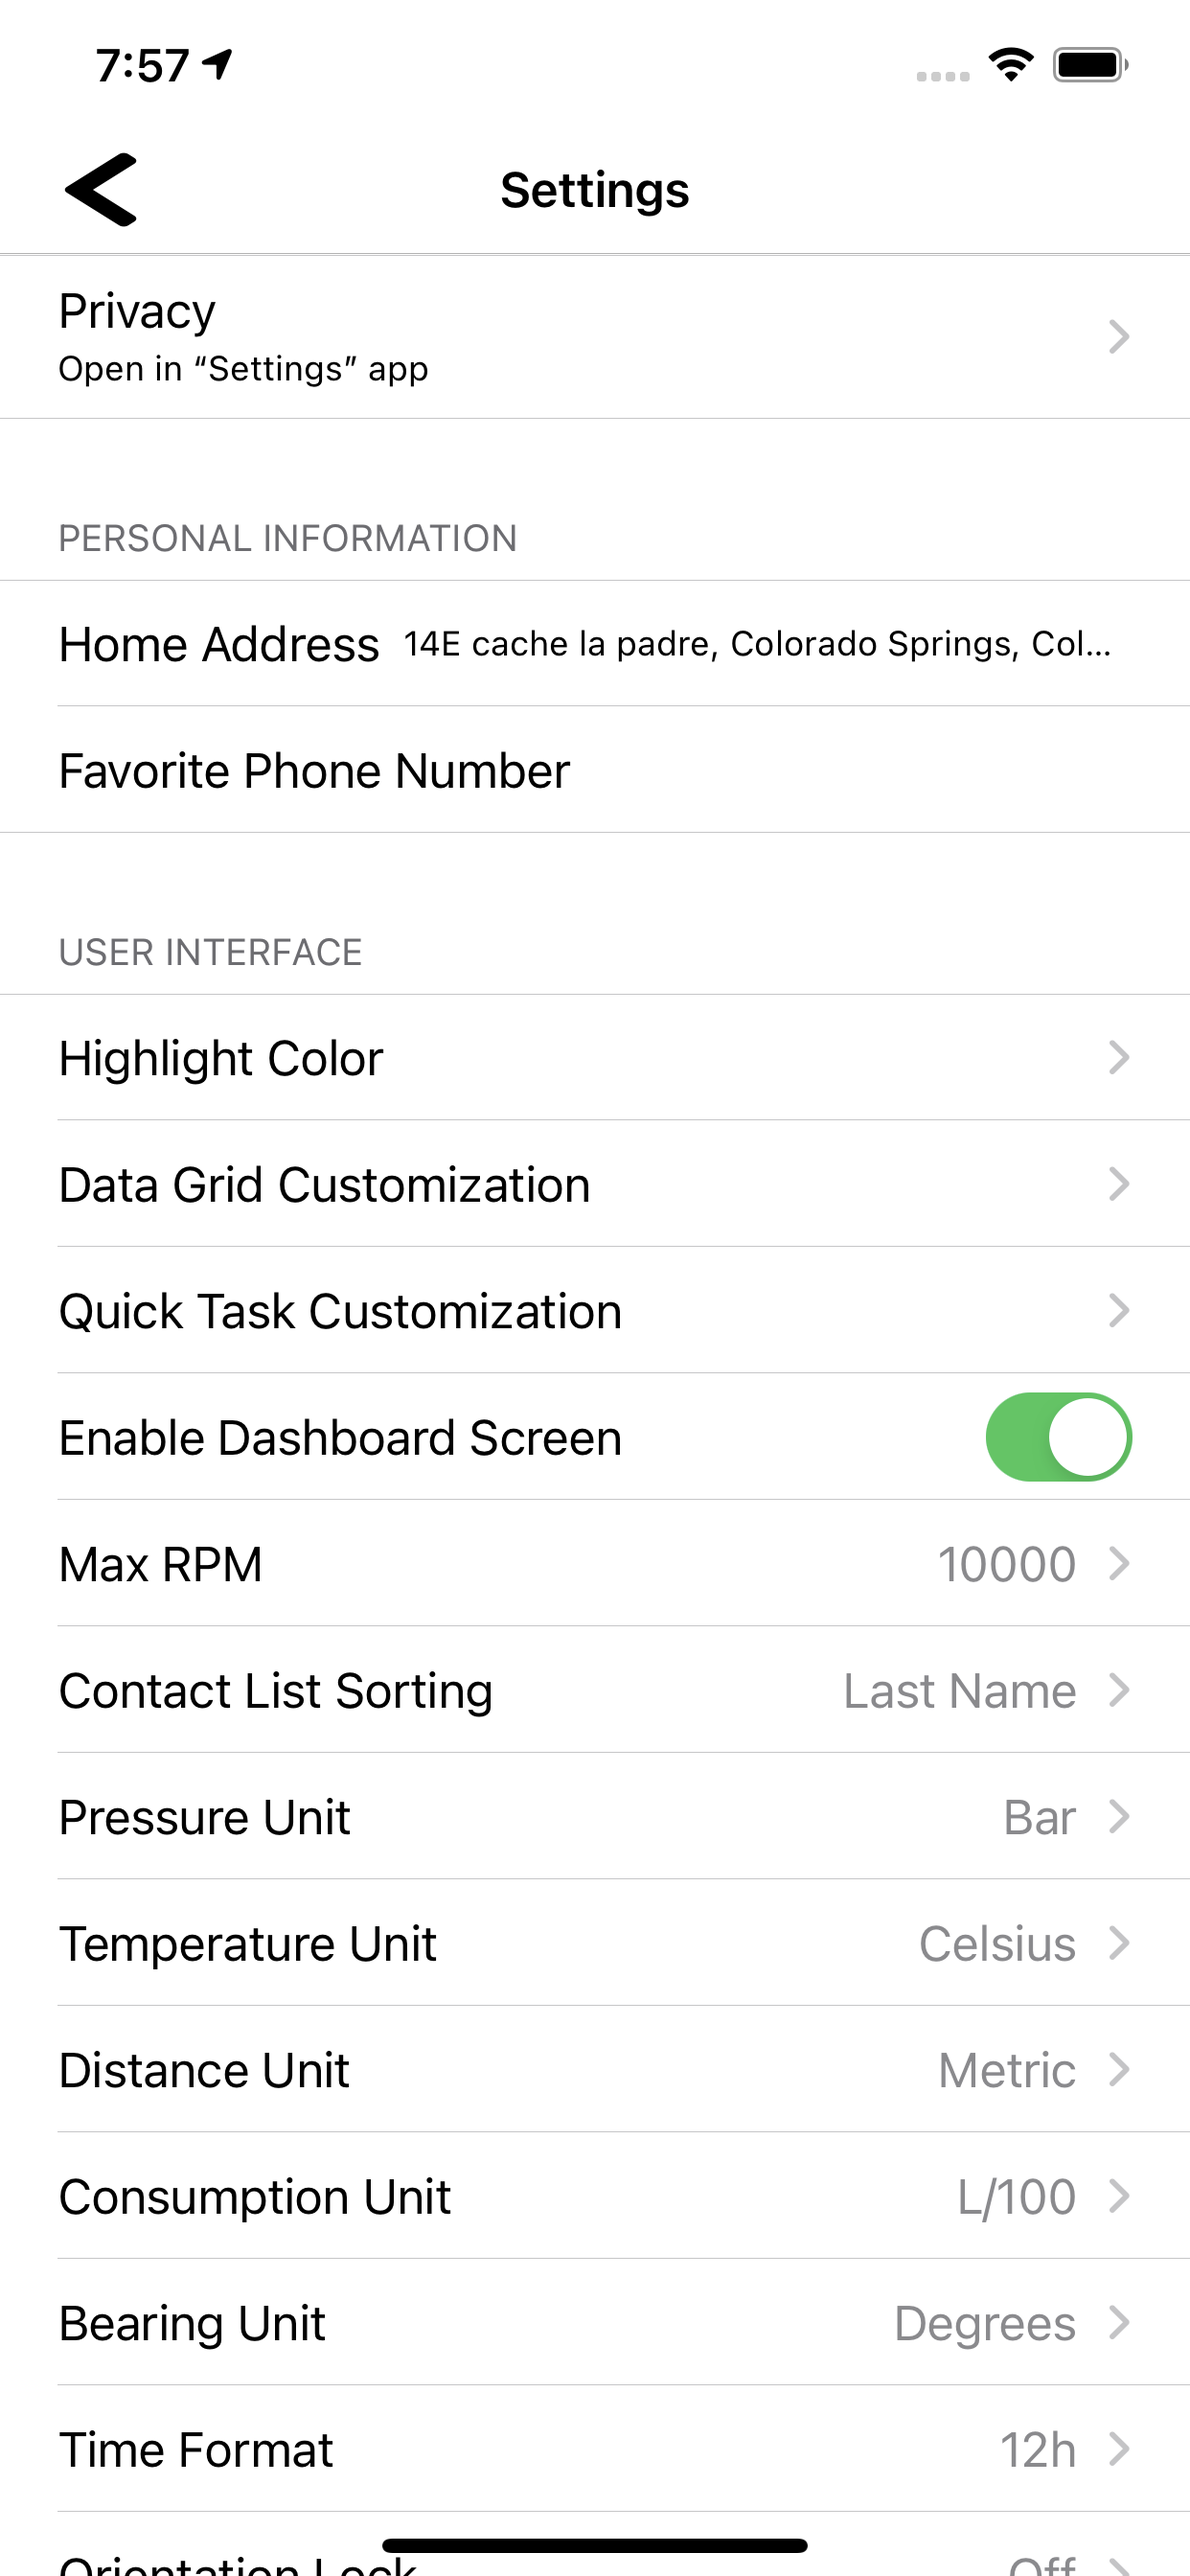
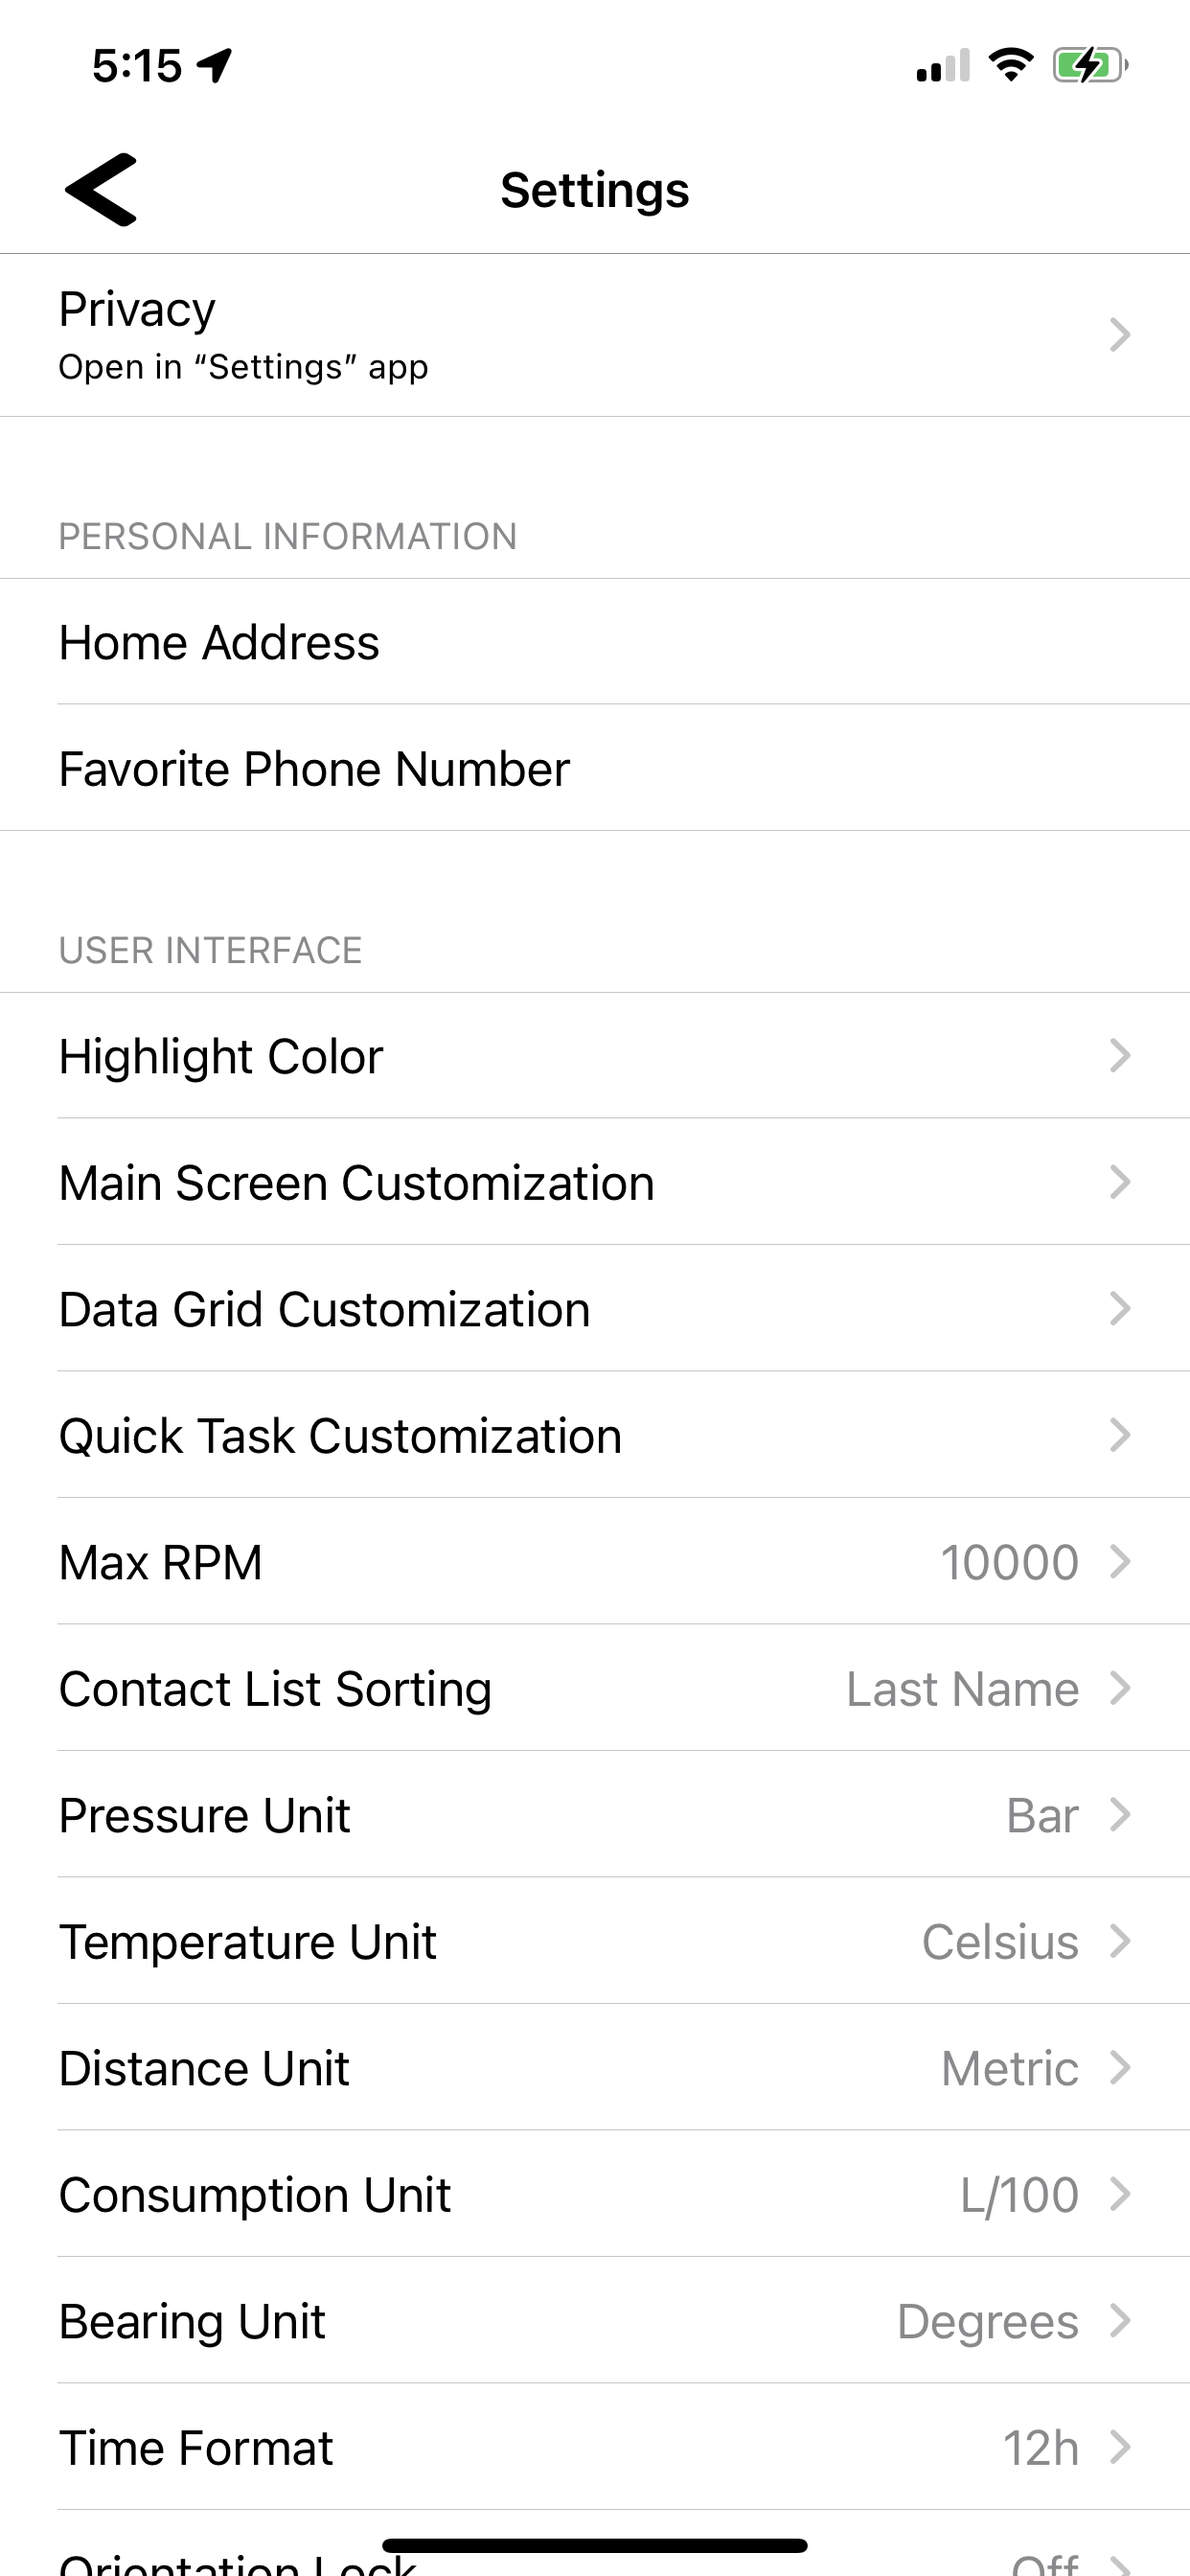
Add Fuel Quick Task Update Cruiser integration info Added DMD2 integration info Added Main Screen Settings

diff --git a/templates/index-android.html b/templates/index-android.html
@@ -124,6 +124,7 @@
                                 <ul class="nav">
                                     <li><a href="#line3_1">INTEGRATIONS_CARTOGRAPHMAPS_TITLE</a></li>
                                     <li><a href="#line3_2">INTEGRATIONS_CRUISER_TITLE</a></li>
+									<li><a href="#line3_10">INTEGRATIONS_DMD2_TITLE</a></li>
                                     <li><a href="#line3_3">INTEGRATIONS_KURVIGER_TITLE</a></li>
                                     <li><a href="#line3_4">INTEGRATIONS_LOCUSMAPS_TITLE</a></li>
                                     <li><a href="#line3_9">INTEGRATIONS_MYROUTEAPP_TITLE</a></li>
@@ -942,16 +943,16 @@
                                         <td>APP_SETTINGS_HIGHLIGHT_DESC</td>
                                     </tr>
                                     <tr>
+                                        <td><strong>APP_SETTINGS_SCREENS_TITLE</strong></td>
+                                        <td>APP_SETTINGS_SCREENS_DESC</td>
+                                    </tr>
+                                    <tr>
                                         <td><strong>APP_SETTINGS_GRID_TITLE</strong></td>
                                         <td>APP_SETTINGS_GRID_DESC</td>
                                     </tr>
                                     <tr>
                                         <td><strong>APP_SETTINGS_TASK_TITLE</strong></td>
                                         <td>APP_SETTINGS_TASK_DESC</td>
-                                    </tr>
-                                    <tr>
-                                        <td><strong>APP_SETTINGS_DASHBOARD_TITLE</strong></td>
-                                        <td>APP_SETTINGS_DASHBOARD_DESC</td>
                                     </tr>
                                     <tr>
                                         <td><strong>APP_SETTINGS_MAXRPM_TITLE</strong></td>
@@ -1113,6 +1114,30 @@
                         </div>
                         <!-- end row -->
                         
+                        <hr>
+                        <!-- Main Screen Settings Documentation -->
+                        <div class="row">
+                            <div class="col-md-4">
+                                <a href="images-localized/android-wunderlinq-settings-screens-1.png"><img src="images-localized/android-wunderlinq-settings-screens-1.png" alt="" class="img-responsive img-thumbnail"></a>
+                            </div>
+
+                            <div class="col-md-8">
+                                <p>APP_SETTINGS_SCREENS_SCREEN_TITLE</p>
+                                <table id="table-list" style="width:100%">
+                                    <tr>
+                                        <td><strong>APP_SETTINGS_DASHBOARD_TITLE</strong></td>
+                                        <td>APP_SETTINGS_DASHBOARD_DESC</td>
+                                    </tr>
+                                    <tr>
+                                        <td><strong>APP_SETTINGS_MUSIC_TITLE</strong></td>
+                                        <td>APP_SETTINGS_MUSIC_DESC</td>
+                                    </tr>
+                                </table>
+                            </div>
+                            <!-- end col -->
+                        </div>
+                        <!-- end row -->
+
                         <hr>
                         <!-- Data Grid Customization Settings -->
                         <div class="row">
@@ -1338,6 +1363,10 @@
                                     <tr>
                                         <td><strong>APP_SETTINGS_QUICKTASK_INSTA360CONTROL_TITLE</strong></td>
                                         <td>APP_SETTINGS_QUICKTASK_INSTA360CONTROL_FUNC</td>
+                                    </tr>
+                                    <tr>
+                                        <td><strong>APP_SETTINGS_QUICKTASK_FUEL_TITLE</strong></td>
+                                        <td>APP_SETTINGS_QUICKTASK_FUEL_FUNC</td>
                                     </tr>
                                 </table>
                             </div>
@@ -1596,15 +1625,23 @@
                         <!-- end row -->
                         
                         <hr>
-                        
+						
+                        <!-- DMD2/WunderLINQ Documentation -->
+                        <div class="row">
+                            <div class="col-md-12 left-align">
+                                <h4 id="line3_10">INTEGRATIONS_DMD2_TITLE</h4>
+                            </div>
+                            <!-- end col -->
+                        </div>
+                        <!-- end row -->
                         <div class="row">
                             <div class="col-md-4">
-                                <a href="images-localized/android-cartographmaps-1.png"><img src="images-localized/android-cartographmaps-1.png" alt="" class="img-responsive img-thumbnail"></a>
+                                <a href="images-localized/android-dmd2-1.png"><img src="images-localized/android-dmd2-1.png" alt="" class="img-responsive img-thumbnail"></a>
                             </div>
 
                             <div class="col-md-8">
-                                <p>INTEGRATIONS_CARTOGRAPHMAPS_FEATURES</p>
-                                <p>INTEGRATIONS_CARTOGRAPHMAPS_STEP_1</p>
+                                <p>INTEGRATIONS_DMD2_FEATURES</p>
+                                <p>INTEGRATIONS_DMD2_STEP_1</p>
                             </div>
                             <!-- end col -->
 

diff --git a/templates/index-ios.html b/templates/index-ios.html
@@ -941,16 +941,16 @@
                                         <td>APP_SETTINGS_HIGHLIGHT_DESC</td>
                                     </tr>
                                     <tr>
+                                        <td><strong>APP_SETTINGS_SCREENS_TITLE</strong></td>
+                                        <td>APP_SETTINGS_SCREENS_DESC</td>
+                                    </tr>
+                                    <tr>
                                         <td><strong>APP_SETTINGS_GRID_TITLE</strong></td>
                                         <td>APP_SETTINGS_GRID_DESC</td>
                                     </tr>
                                     <tr>
                                         <td><strong>APP_SETTINGS_TASK_TITLE</strong></td>
                                         <td>APP_SETTINGS_TASK_DESC</td>
-                                    </tr>
-                                    <tr>
-                                        <td><strong>APP_SETTINGS_DASHBOARD_TITLE</strong></td>
-                                        <td>APP_SETTINGS_DASHBOARD_DESC</td>
                                     </tr>
                                     <tr>
                                         <td><strong>APP_SETTINGS_MAXRPM_TITLE</strong></td>
@@ -1089,6 +1089,30 @@
                         </div>
                         <!-- end row -->
                         
+                        <hr>
+                        <!-- Main Screen Settings Documentation -->
+                        <div class="row">
+                            <div class="col-md-4">
+                                <a href="images-localized/ios-wunderlinq-settings-screens-1.png"><img src="images-localized/ios-wunderlinq-settings-screens-1.png" alt="" class="img-responsive img-thumbnail"></a>
+                            </div>
+
+                            <div class="col-md-8">
+                                <p>APP_SETTINGS_SCREENS_SCREEN_TITLE</p>
+                                <table id="table-list" style="width:100%">
+                                    <tr>
+                                        <td><strong>APP_SETTINGS_DASHBOARD_TITLE</strong></td>
+                                        <td>APP_SETTINGS_DASHBOARD_DESC</td>
+                                    </tr>
+                                    <tr>
+                                        <td><strong>APP_SETTINGS_MUSIC_TITLE</strong></td>
+                                        <td>APP_SETTINGS_MUSIC_DESC</td>
+                                    </tr>
+                                </table>
+                            </div>
+                            <!-- end col -->
+                        </div>
+                        <!-- end row -->
+
                         <hr>
                         <!-- Data Grid Customization Settings -->
                         <div class="row">
@@ -1303,6 +1327,10 @@
                                     <tr>
                                         <td><strong>APP_SETTINGS_QUICKTASK_INSTA360CONTROL_TITLE</strong></td>
                                         <td>APP_SETTINGS_QUICKTASK_INSTA360CONTROL_FUNC</td>
+                                    </tr>
+                                    <tr>
+                                        <td><strong>APP_SETTINGS_QUICKTASK_FUEL_TITLE</strong></td>
+                                        <td>APP_SETTINGS_QUICKTASK_FUEL_FUNC</td>
                                     </tr>
                                 </table>
                             </div>
